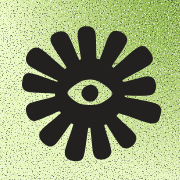
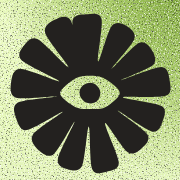
Znak Untrois: květina se 13 lístky a okem (ikona modulu i appky)
Meditace si nechává svou květinu se 7 lístky; Untrois má stejný styl s 13 lístky,
ikona appky je sjednocená na tentýž tvar.

Claude-Session: https://claude.ai/code/session_01E3EvSufGZ2pDTmaoRH4YC1

diff --git a/src/lib/icons.ts b/src/lib/icons.ts
@@ -12,7 +12,7 @@ export const ICONS: Record<IconName, ["i" | "c", string][]> = {
   lide: [["i", "M49.4 31.9C50.8 28.5 42.3 16.4 37.5 13.5C32.8 10.7 27.2 14.2 25.8 17.6C24.3 21 25.6 27.5 30.4 30.4C35.1 33.2 48 35.2 49.4 31.9Z"], ["i", "M50.6 32C49 29 57.2 17 61.9 14.2C66.7 11.4 72.8 15 74.4 18.1C76 21.1 74.8 26.6 70 29.4C65.2 32.2 52.2 35 50.6 32Z"], ["i", "M20.1 45.6C22.5 43.8 44.9 44.5 49.9 44.5C54.9 44.4 77.9 43.6 80.4 45.4C82.9 47.3 79.8 62.9 79.7 66.3C79.6 69.7 82.1 84.8 79.6 86.5C77.2 88.2 55.3 86.8 50.3 86.7C45.4 86.6 22.9 87.2 20.5 85.6C18 83.9 20.6 69.9 20.6 66.6C20.6 63.2 17.6 47.5 20.1 45.6Z"], ["i", "M14 34.6C17.1 33.4 44.5 31.7 50.5 31.6C56.5 31.6 82.8 32.7 85.8 33.9C88.8 35.2 89.7 45.3 86.7 46.4C83.6 47.5 55.6 47.2 49.4 47.2C43.2 47.1 15.6 46.6 12.7 45.6C9.7 44.5 10.8 35.7 14 34.6Z"], ["c", "M46.9 47.1C47.2 47 49.8 47 50.3 47C50.7 47 52.9 47.1 53.2 47.1C53.4 47.2 54.1 46.5 54.1 47.8C54.2 49.1 53.8 64.2 53.8 66.6C53.7 69.1 53.9 83.5 53.9 84.8C53.8 86.1 53.4 86.2 53.2 86.2C52.9 86.3 50.6 86 50.2 86C49.8 86 47.5 86 47.2 85.9C46.9 85.9 46 86.2 45.9 84.9C45.8 83.6 45.9 69.2 45.9 66.8C45.9 64.3 45.7 49.1 45.7 47.8C45.8 46.5 46.6 47.1 46.9 47.1Z"], ["c", "M13.9 45.9C16.3 45.8 45.3 46.1 50.1 46.1C54.9 46.1 83.6 46 86 46.1C88.5 46.1 86.8 46.9 86.9 47C86.9 47.1 86.9 47.1 86.9 47.1C86.9 47.2 87.1 47.3 87 47.4C87 47.5 88.5 48.5 86 48.6C83.5 48.7 54.9 48.6 50.1 48.6C45.3 48.6 16.5 48.4 14 48.4C11.5 48.3 13.2 47.6 13.1 47.5C13.1 47.4 13.1 47.1 13.1 47.1C13.1 47.1 12.9 47.2 12.9 47.1C13 47.1 11.4 45.9 13.9 45.9Z"]],
   vdecnost: [["i", "M49.6 34.4C49.7 34.3 50.1 33.7 50.4 32.7C50.7 31.8 50.6 30 51.4 28.5C52.1 27 53.2 25.2 54.8 23.7C56.4 22.2 58.7 20.7 60.8 19.6C63 18.6 65.3 17.5 67.8 17.3C70.4 17 73.6 17.2 76.2 18.1C78.8 18.9 81.5 20.6 83.5 22.5C85.6 24.3 87.3 26.8 88.3 29.3C89.3 31.7 89.8 34.5 89.8 37.1C89.7 39.8 89 42.4 87.9 45.1C86.8 47.9 85.3 51.2 83.2 53.7C81.2 56.3 78.1 58.1 75.6 60.4C73.1 62.7 70.6 65.3 68.1 67.7C65.7 70.1 63.1 72.5 60.9 74.6C58.7 76.7 56.5 78.3 54.9 80.1C53.3 81.9 52.1 83.7 51.3 85.2C50.5 86.6 50.4 88 50.2 88.7C50.1 89.4 50.4 89.5 50.3 89.4C50.2 89.3 49.8 88.9 49.5 88.2C49.2 87.6 49.2 86.5 48.5 85.2C47.8 83.9 46.8 82.1 45.2 80.3C43.7 78.5 41.4 76.5 39.3 74.4C37.1 72.4 35 70.3 32.4 68.1C29.8 65.8 26.4 63.3 23.7 61C21.1 58.6 18.5 56.4 16.6 53.7C14.6 51.1 13 47.8 11.8 44.9C10.7 42.1 9.6 39.3 9.6 36.6C9.6 33.9 10.8 31.2 12 28.8C13.1 26.4 14.7 23.8 16.7 22.1C18.7 20.3 21.3 19 23.9 18.2C26.5 17.5 29.7 17.4 32.3 17.5C34.8 17.7 37.1 18.1 39.2 19.2C41.3 20.2 43.4 22.3 44.9 23.9C46.4 25.6 47.4 27.6 48.1 29.1C48.9 30.7 49.2 32.5 49.4 33.3C49.7 34.2 49.4 34.5 49.6 34.4Z"]],
   nakup: [["i", "M23.5 43.8C23.2 40.3 26.6 22.3 30.1 17.8C33.6 13.2 44.1 9.9 49.5 9.9C54.9 9.9 66.8 13.4 70.4 17.9C73.9 22.4 76.4 40.1 76.1 43.6C75.9 47.1 70.1 46.9 68.4 44.2C66.7 41.5 66 27 63.5 23.5C61.1 20 53.6 17.8 49.9 17.8C46.2 17.9 38 20.2 35.6 23.7C33.3 27.3 34 41.6 32.4 44.3C30.8 46.9 23.8 47.4 23.5 43.8Z"], ["i", "M12.2 40.3C14.7 36.5 44.4 39.3 50.7 39.4C57 39.4 85.4 36.6 87.8 40.5C90.3 44.4 83.2 82.3 80.1 86.2C77 90.2 55.4 88.3 50.4 88.2C45.5 88.2 23.5 89.6 20.3 85.6C17.1 81.6 9.6 44.2 12.2 40.3Z"], ["c", "M23.9 51.8C27.3 51.4 72.8 51.3 76.2 51.5C79.6 51.8 78.7 55.4 75.3 55.7C71.8 56.1 28.2 57 24.7 56.8C21.3 56.5 20.5 52.1 23.9 51.8Z"], ["c", "M24.2 63.9C27.6 63.6 72.6 63.1 76 63.4C79.4 63.7 78.3 67.9 74.9 68.3C71.5 68.6 28.3 68.8 24.9 68.6C21.6 68.3 20.8 64.3 24.2 63.9Z"], ["c", "M24.3 75.7C27.7 75.4 72.7 75.4 76 75.7C79.4 75.9 78.6 79.5 75.2 79.8C71.8 80.1 28.4 80.8 25.1 80.5C21.7 80.3 20.9 76 24.3 75.7Z"]],
-  untrois: [["i", "M16.2 30.5C16.4 23.5 17.7 21.9 23.8 19.6C29.9 17.2 62.3 10.6 68.8 10.4C75.3 10.2 77.4 11.6 79.6 17.8C81.8 24.1 87.4 57.1 87.7 64.2C88.1 71.2 88.9 75.8 82.8 78.4C76.6 81 42.2 86.3 35.1 86.4C28 86.6 24.1 86.1 21.9 79.6C19.7 73.1 16 37.5 16.2 30.5Z"], ["c", "M38.7 34.1C38.8 35.6 38.5 36.8 37.6 38.2C36.7 39.7 35.8 40.8 34.1 41.4C32.5 42 30.9 41.7 29.3 41.2C27.7 40.7 27.1 40.1 26.1 38.8C25.2 37.5 24.3 36.4 24.3 34.7C24.3 33 25.1 31.6 26.2 30.2C27.2 28.9 28.1 28.6 29.7 28.1C31.2 27.6 32.5 27.4 33.9 27.9C35.4 28.4 36.1 29.4 37.1 30.6C38 31.9 38.6 32.6 38.7 34.1Z"], ["c", "M59.2 48.6C59.2 50.3 58.9 51.5 57.8 52.8C56.7 54.1 55.5 54.5 53.9 55.1C52.3 55.7 51.2 56.1 49.7 55.7C48.2 55.3 47.6 54.5 46.5 53.1C45.5 51.7 44.6 50.2 44.6 48.6C44.5 47 45.4 46.2 46.4 45C47.4 43.7 48.1 42.9 49.6 42.3C51 41.7 52 41.7 53.6 42.1C55.2 42.6 56.5 43.2 57.6 44.5C58.7 45.8 59.2 47 59.2 48.6Z"], ["c", "M79.3 63.2C79.4 64.8 79 65.6 78 66.9C76.9 68.1 75.6 68.8 74 69.4C72.3 70 71.4 70.2 69.8 69.8C68.3 69.4 67.2 68.8 66.3 67.3C65.3 65.9 65.1 64.4 65.1 62.8C65.1 61.1 65.5 60.3 66.3 59.1C67.2 57.8 68 56.8 69.5 56.3C71.1 55.8 72.4 55.9 74 56.4C75.6 56.9 76.4 57.4 77.4 58.7C78.5 60.1 79.1 61.5 79.3 63.2Z"]],
+  untrois: [["i", "M44.1 31.7C44.3 31.8 38.3 10.9 38.9 6.4C39.6 2 45.7 2.3 48.4 2.2C51.2 2 56.3 0.9 57.3 5.4C58.3 9.8 54.1 31.3 55.1 32C56 32.6 61 13 63.7 9.6C66.4 6.2 70.8 8.2 72.9 9.4C75.1 10.7 79.4 13.7 78 17.8C76.6 21.8 63.3 36.1 63.7 36.5C64.1 36.9 77 22.3 80.7 20.4C84.5 18.6 87.3 22.3 88.7 24.3C90 26.3 92.8 31.1 90 34C87.1 36.9 68.8 43.6 69.5 43.8C70.3 44 90.4 35.5 95 35.5C99.6 35.6 99.8 41.4 100.3 44.1C100.7 46.8 102.3 52.2 97.8 53.7C93.4 55.3 71.1 53.6 70.7 54.5C70.3 55.5 91.4 57.8 95.2 60.1C99 62.3 96.7 67.1 95.9 69.6C95 72 93.6 77.3 89.3 76.3C85 75.4 67.9 62.7 67.5 63C67 63.3 84 74.6 86.3 78.1C88.5 81.7 84.6 85 82.7 86.7C80.9 88.3 77.3 91.7 73.8 89.3C70.3 87 60.3 69.9 59.5 70.9C58.6 71.9 68 91.3 68.2 95.8C68.4 100.4 63.5 100.8 61 101.5C58.5 102.1 53.1 104.3 51.4 100C49.6 95.7 50.2 73.4 49.2 73.1C48.3 72.8 46.9 94.1 44.9 98.2C42.8 102.2 38.1 100.6 35.8 100C33.5 99.3 29 98.2 29.7 93.7C30.3 89.3 40.6 70.6 40.2 70.1C39.8 69.7 30.5 87.9 27.1 90.5C23.7 93.2 19.4 89.6 17.4 87.8C15.4 85.9 11.6 81.8 13.9 78.2C16.2 74.6 33.3 64.2 32.8 63.8C32.2 63.4 14.5 74.8 10.1 75.3C5.7 75.9 4.2 70.2 3.3 67.6C2.5 65 0.4 60.1 4.3 58C8.2 56 29.5 54.5 29.3 54C29.2 53.6 7.7 56.2 3.3 54.9C-1.1 53.5 -0.2 47.7 0.2 45C0.6 42.3 1.3 36.7 5.9 36.6C10.4 36.6 30.6 45.3 30.7 44.5C30.9 43.7 10.2 34.5 6.8 31.2C3.4 27.8 6.7 24.1 8.2 22.1C9.8 20.1 12.7 15.8 17 17.9C21.2 19.9 35.7 36.2 36.4 35.6C37.1 35 23.1 18.5 21.7 14C20.4 9.5 25.3 6.9 27.7 5.7C30.1 4.4 35.2 1.9 37.7 5.8C40.1 9.7 43.9 31.6 44.1 31.7Z"], ["c", "M31.1 52.1C31.1 49.4 37.9 44.5 40.7 42.8C43.5 41.1 47 41 49.8 41C52.7 41 56.6 41.2 59.4 42.9C62.3 44.5 68.8 49.2 68.8 51.9C68.9 54.6 62.5 59.4 59.6 60.9C56.8 62.4 52.8 62 49.9 62C47.1 62 43.4 62.2 40.6 60.7C37.8 59.2 31.1 54.8 31.1 52.1Z"], ["i", "M56.5 51.9C56.5 53.4 56.2 54.6 55.3 55.8C54.4 57.1 53.5 57.8 52 58.2C50.6 58.6 49.5 58.5 48.1 58.1C46.7 57.6 45.8 57 44.9 55.7C43.9 54.5 43.5 53.5 43.4 51.9C43.4 50.4 43.7 49.3 44.6 48.1C45.6 46.9 46.7 46.3 48.1 45.8C49.6 45.3 50.6 45.2 52 45.7C53.4 46.2 54.3 47 55.2 48.2C56.1 49.4 56.5 50.3 56.5 51.9Z"]],
   dech: [["i", "M48.7 9.7C49.1 9.4 49.8 9.9 50 10C50.3 10.1 50.9 10 51.3 10.3C51.7 10.6 53.6 11 53.9 12.7C54.2 14.5 53.8 24.8 53.8 27.8C53.8 30.8 54.4 41.2 54.1 43C53.8 44.8 51.4 45.5 51 45.8C50.6 46.1 50.5 46.1 50.3 46.1C50.1 46.1 49.6 46.1 49.2 45.8C48.8 45.5 46.4 44.8 46.1 43C45.7 41.2 46.1 30.9 46.1 27.9C46 24.9 45.5 14.8 45.7 12.9C46 11.1 48.3 10 48.7 9.7Z"], ["i", "M44.4 34.1C41.6 28.1 35.2 26.2 30.5 26.4C25.8 26.7 22.3 29.8 18.8 35.5C15.3 41.2 12.2 49.1 11.4 57.6C10.7 66.1 11.5 76.3 14.6 82C17.6 87.7 23.2 88.9 28 88.6C32.9 88.4 38 86 41.2 80.6C44.5 75.3 45.1 68 45.7 59.4C46.3 50.9 47.2 40.2 44.4 34.1Z"], ["i", "M56.1 34.5C58.8 28.3 64.4 25.8 69.2 26.2C74.1 26.6 79 30.7 82.4 36.6C85.9 42.5 87.6 49.9 88.2 58.2C88.7 66.5 88.4 76.4 85.3 81.8C82.2 87.2 76.2 87.9 71.2 87.8C66.3 87.6 61.5 85.9 58.4 80.8C55.2 75.7 54.7 68.4 54.3 59.9C53.8 51.4 53.3 40.7 56.1 34.5Z"], ["c", "M38.2 46.2C38.1 47.8 35.4 55 34.1 58.2C32.7 61.3 29.2 68.7 28.1 69.9C27 71.2 25.5 69.7 25.9 67.8C26.3 66 29.8 58.7 31 55.8C32.2 52.9 34 47.2 35 45.9C35.9 44.6 38.3 44.5 38.2 46.2Z"], ["c", "M62 45.9C62.1 47.5 64.8 54.9 66.1 58.2C67.5 61.4 71.1 68.7 72.2 70C73.2 71.4 74.5 70 74.1 68.2C73.7 66.3 70.3 59 69.1 56C67.9 53.1 66.1 47.4 65.2 46C64.2 44.7 61.9 44.3 62 45.9Z"]],
   cornhole: [["i", "M29.3 12.4C32.2 8.6 67.2 8.5 70.1 12.3C73.1 16.2 91.4 86 88.5 89.8C85.6 93.7 15.3 93.4 12.3 89.6C9.3 85.7 26.4 16.3 29.3 12.4Z"], ["c", "M60.1 34C60.1 35.8 59.8 36.8 58.8 38.4C57.8 40 57 41.1 55.2 42C53.4 42.9 51.9 42.8 49.8 42.8C47.8 42.8 46.7 42.7 45 41.9C43.3 41.1 42.5 40.3 41.4 38.7C40.4 37.1 39.8 35.5 39.8 33.7C39.8 31.9 40.2 31.2 41.3 29.7C42.4 28.2 43.5 27.3 45.3 26.4C47 25.5 48 25.1 50 25.1C52 25.1 53.5 25.4 55.2 26.2C56.9 27.1 57.6 27.8 58.6 29.4C59.6 30.9 60 32.2 60.1 34Z"], ["c", "M66 56.8C68.7 55.9 71.6 57.9 74 58.3C76.4 58.8 79.5 57.9 81.8 59.6C84 61.4 88.2 67.2 89.1 70C90 72.7 88.2 75.7 87.8 78C87.4 80.4 88 83.6 86.3 85.9C84.5 88.1 78.7 92.3 75.9 93.2C73.2 94.1 70.4 92.1 68 91.7C65.7 91.3 62.5 92.1 60.2 90.4C58 88.6 53.7 82.6 52.8 79.9C51.9 77.1 53.9 74.5 54.3 72.1C54.7 69.7 53.9 66.4 55.7 64.1C57.5 61.8 63.2 57.6 66 56.8Z"], ["i", "M67.3 62.1C69.2 61.6 71.3 62.8 73.1 63.1C74.8 63.5 77.4 63 79 64.2C80.6 65.4 83.3 69.4 83.9 71.3C84.5 73.2 83.1 75.3 82.8 77C82.5 78.8 82.9 81.3 81.7 83C80.5 84.6 76.9 87.4 74.9 87.9C73 88.5 70.6 87.1 68.8 86.8C67 86.4 64.7 86.9 63.1 85.8C61.4 84.6 58.6 80.8 58.1 78.9C57.5 77 59 74.7 59.3 72.9C59.7 71.1 59.1 68.5 60.3 66.9C61.5 65.3 65.4 62.7 67.3 62.1Z"]],
   skore: [["i", "M89.2 49.4C89.4 54.5 89.4 59 88 63.9C86.5 68.9 84.8 72.3 81.5 76.2C78.1 80.1 74.3 82.8 69.6 85.1C65 87.5 61 88.6 56.3 89.1C51.5 89.7 48.5 89.3 43.6 88.4C38.7 87.4 34.2 86.2 29.7 84.1C25.2 81.9 22.4 80.4 19.1 76.7C15.8 72.9 13.3 68.6 11.7 63.7C10 58.7 9.9 54.6 10.1 49.5C10.4 44.5 11.3 40.7 13.2 36.1C15.1 31.5 17.3 28.4 20.4 24.7C23.5 20.9 26.2 18.1 30.3 15.5C34.3 12.9 37.4 11.7 42.4 10.6C47.4 9.5 52.5 8.7 57.5 9.4C62.6 10.2 65.6 11.8 69.8 14.6C74 17.4 77.3 20.5 80.4 24.5C83.5 28.4 85.3 31.6 86.9 36.2C88.5 40.8 89 44.3 89.2 49.4Z"], ["c", "M77.7 50.2C77.6 54.2 77 57.4 75.5 60.9C74 64.5 72.3 67 69.5 69.7C66.7 72.3 63.9 74.1 60.4 75.6C56.8 77.1 53.9 77.9 50.1 77.9C46.2 77.9 43 77 39.3 75.5C35.7 74 32.9 72.3 30.1 69.6C27.3 66.8 25.5 64 24.1 60.4C22.6 56.9 22.4 53.9 22.4 50.1C22.4 46.2 22.7 42.9 24 39.2C25.4 35.5 27 32.7 29.8 30C32.6 27.2 35.7 25.8 39.4 24.2C43 22.7 45.7 21.7 49.7 21.6C53.6 21.5 57 22.3 60.7 23.8C64.5 25.3 67.1 27.1 69.9 29.9C72.7 32.7 74.6 35.4 76 39.2C77.5 42.9 77.8 46.3 77.7 50.2Z"], ["i", "M68.6 50.3C68.7 53.3 68.6 55.4 67.4 58C66.2 60.6 64.6 62.6 62.1 64.6C59.6 66.6 56.9 68 53.8 68.7C50.8 69.5 48.4 69.5 45.6 68.8C42.7 68 40.6 66.7 38.3 64.8C35.9 62.9 34.1 61.1 32.8 58.3C31.5 55.5 31.2 52.7 31.2 49.7C31.3 46.6 31.9 44.3 33.2 41.7C34.5 39 35.9 37.1 38.2 35.2C40.6 33.3 43 32 45.9 31.2C48.9 30.4 51.2 30.3 54.2 31.1C57.1 31.9 59.8 33.5 62.1 35.4C64.4 37.4 65.6 39 66.8 41.8C68 44.5 68.5 47.4 68.6 50.3Z"], ["c", "M57.1 49.8C57.1 51.5 56.7 52.7 55.7 54.1C54.6 55.5 53.6 56.2 52 56.7C50.5 57.3 49.4 57.4 47.8 56.8C46.2 56.3 45.2 55.4 44.3 54C43.3 52.6 42.9 51.6 42.9 49.9C43 48.3 43.4 47.3 44.4 45.9C45.3 44.6 46.1 43.8 47.7 43.3C49.3 42.7 50.7 42.8 52.3 43.3C53.9 43.8 54.8 44.5 55.8 45.8C56.7 47.1 57.1 48.2 57.1 49.8Z"]],

diff --git a/docs/DESIGN.md b/docs/DESIGN.md
@@ -318,8 +318,8 @@ Textury generuje `node scripts/generate-textures.mjs` (zrno, sprej, jiskření; 
   při zadržení má čárkovaný obrys; uprostřed odpočet. Během cvičení je spodní lišta schovaná (`.focus-mode`).
 - **Okno** (`Modal`) uprostřed obrazovky pro detail hlášky: „obrazovka“ s textem a řada akcí (Top, Kopie, Sdílet,
   Upravit, Smazat). Při psaní se lišta schová (`.kb-open`) a okna i panely se drží nad klávesnicí.
-- **Značka Untrois**: appka se jmenuje Untrois (francouzsky „jedna, tři“ = 13). Ikona appky je off-black květina
-  se **13 lístky** (číslo Untrois) a **okem** uprostřed (stejné oko jako ikona Meditace), vystřižená z papíru na zrnitém
+- **Značka Untrois**: appka se jmenuje Untrois (francouzsky „jedna, tři“ = 13). Znak Untrois i ikona appky je off-black květina
+  se **13 lístky** (číslo Untrois) a **okem** uprostřed, ve stylu ikony Meditace (ta má 7 lístků); stejný tvar je ikona modulu Untrois, vystřižená z papíru na zrnitém
   limetkovém přechodu (barva modulu 13). Zdroj `public/favicon.svg`, PNG přes `npm run icons` s okrajem, aby je iOS
   nezaoblil a kulatá ikona Androidu nic neořízla. Modul Untrois má barvu `lime`.
 - **Sekce na Dnes** (`.sec-tab`): nadpis s tečkou v barvě modulu, obsah v bílé kartě; mezi sekcemi 30 px. Nákup,
